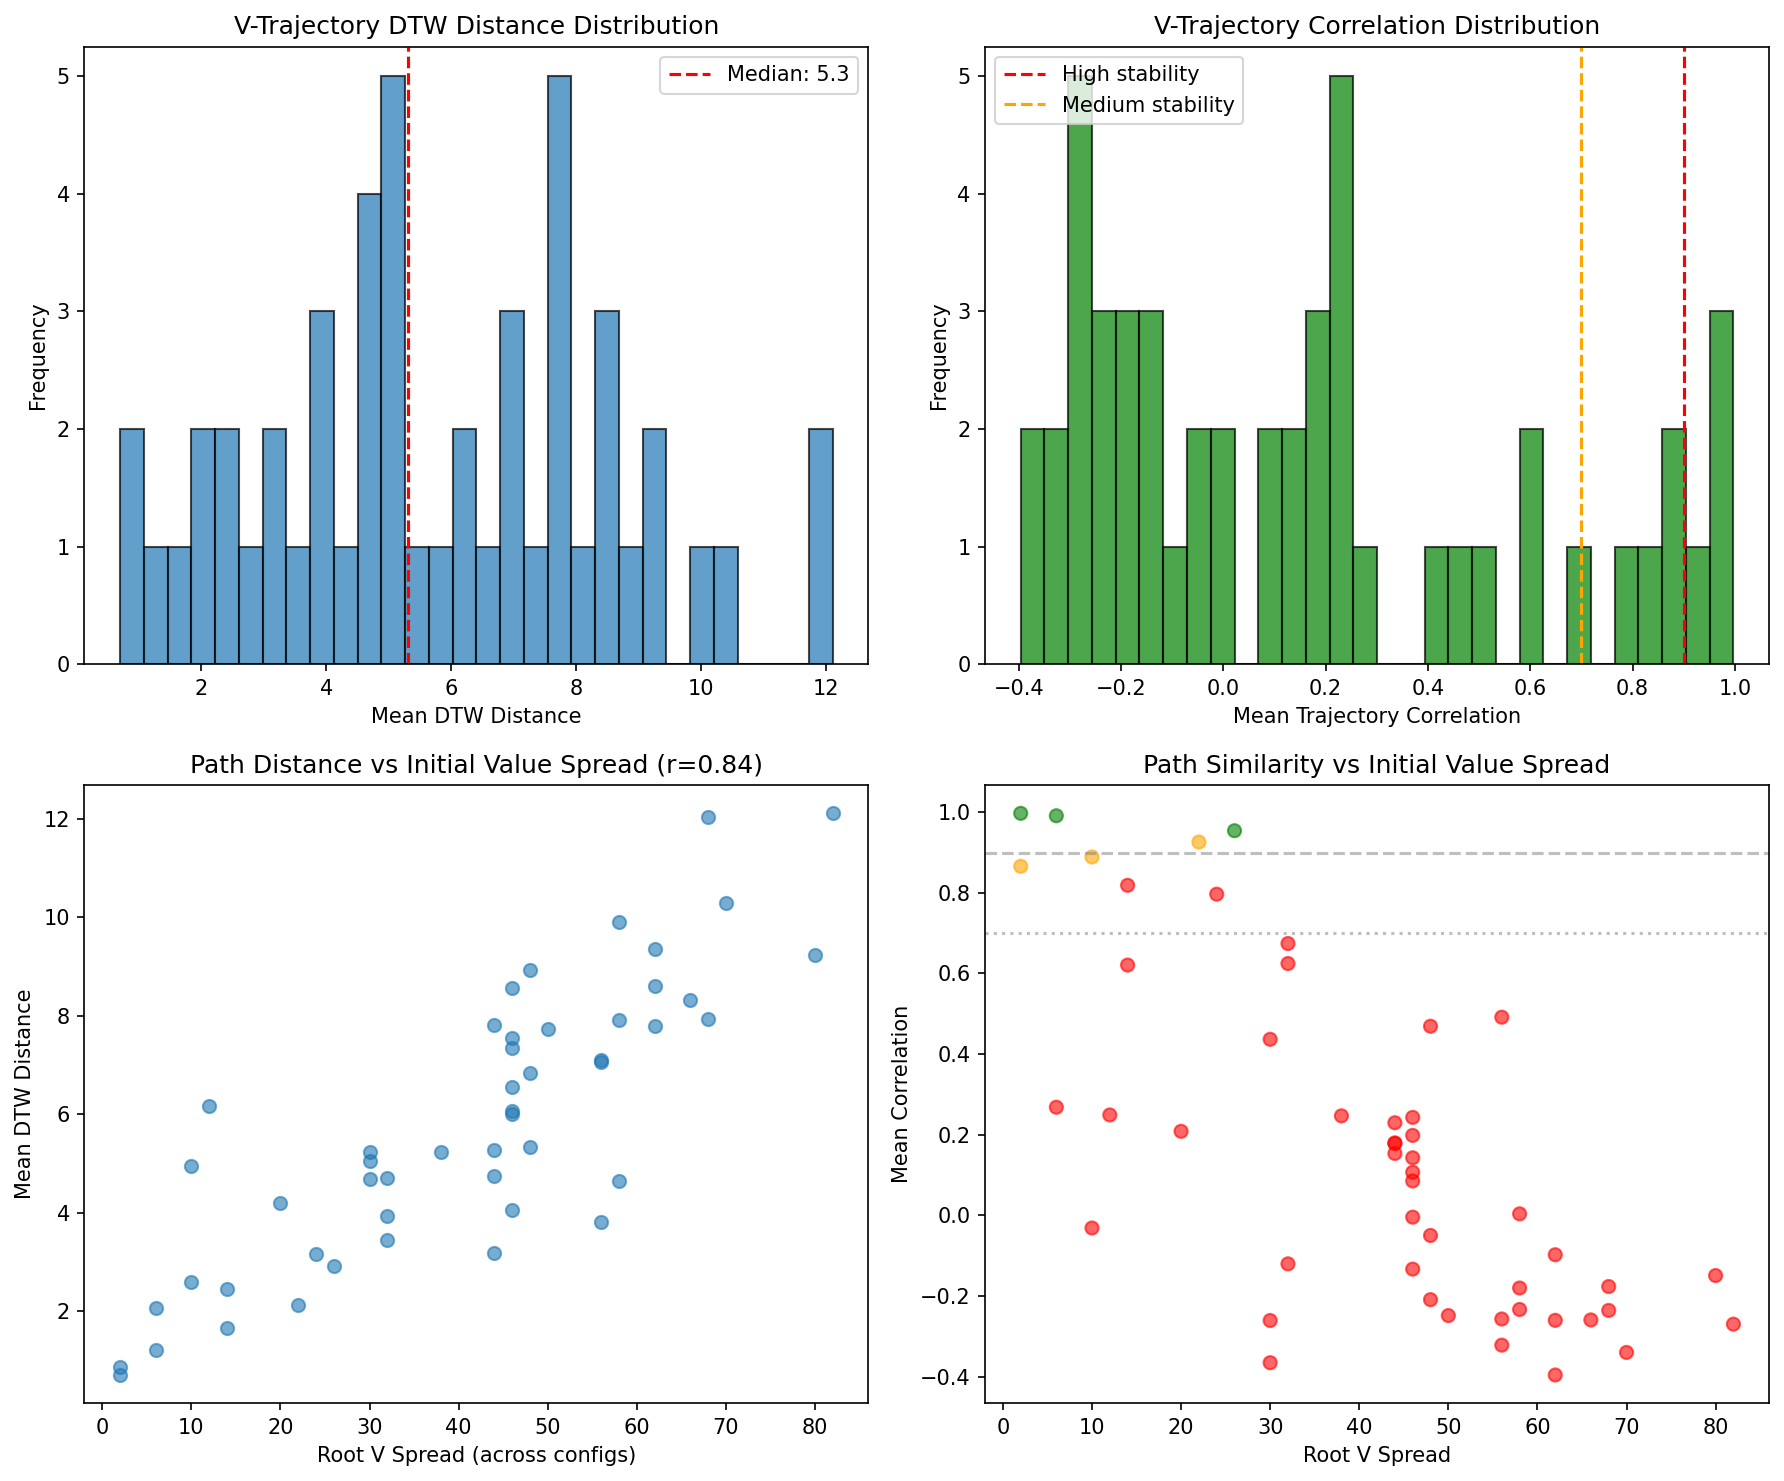
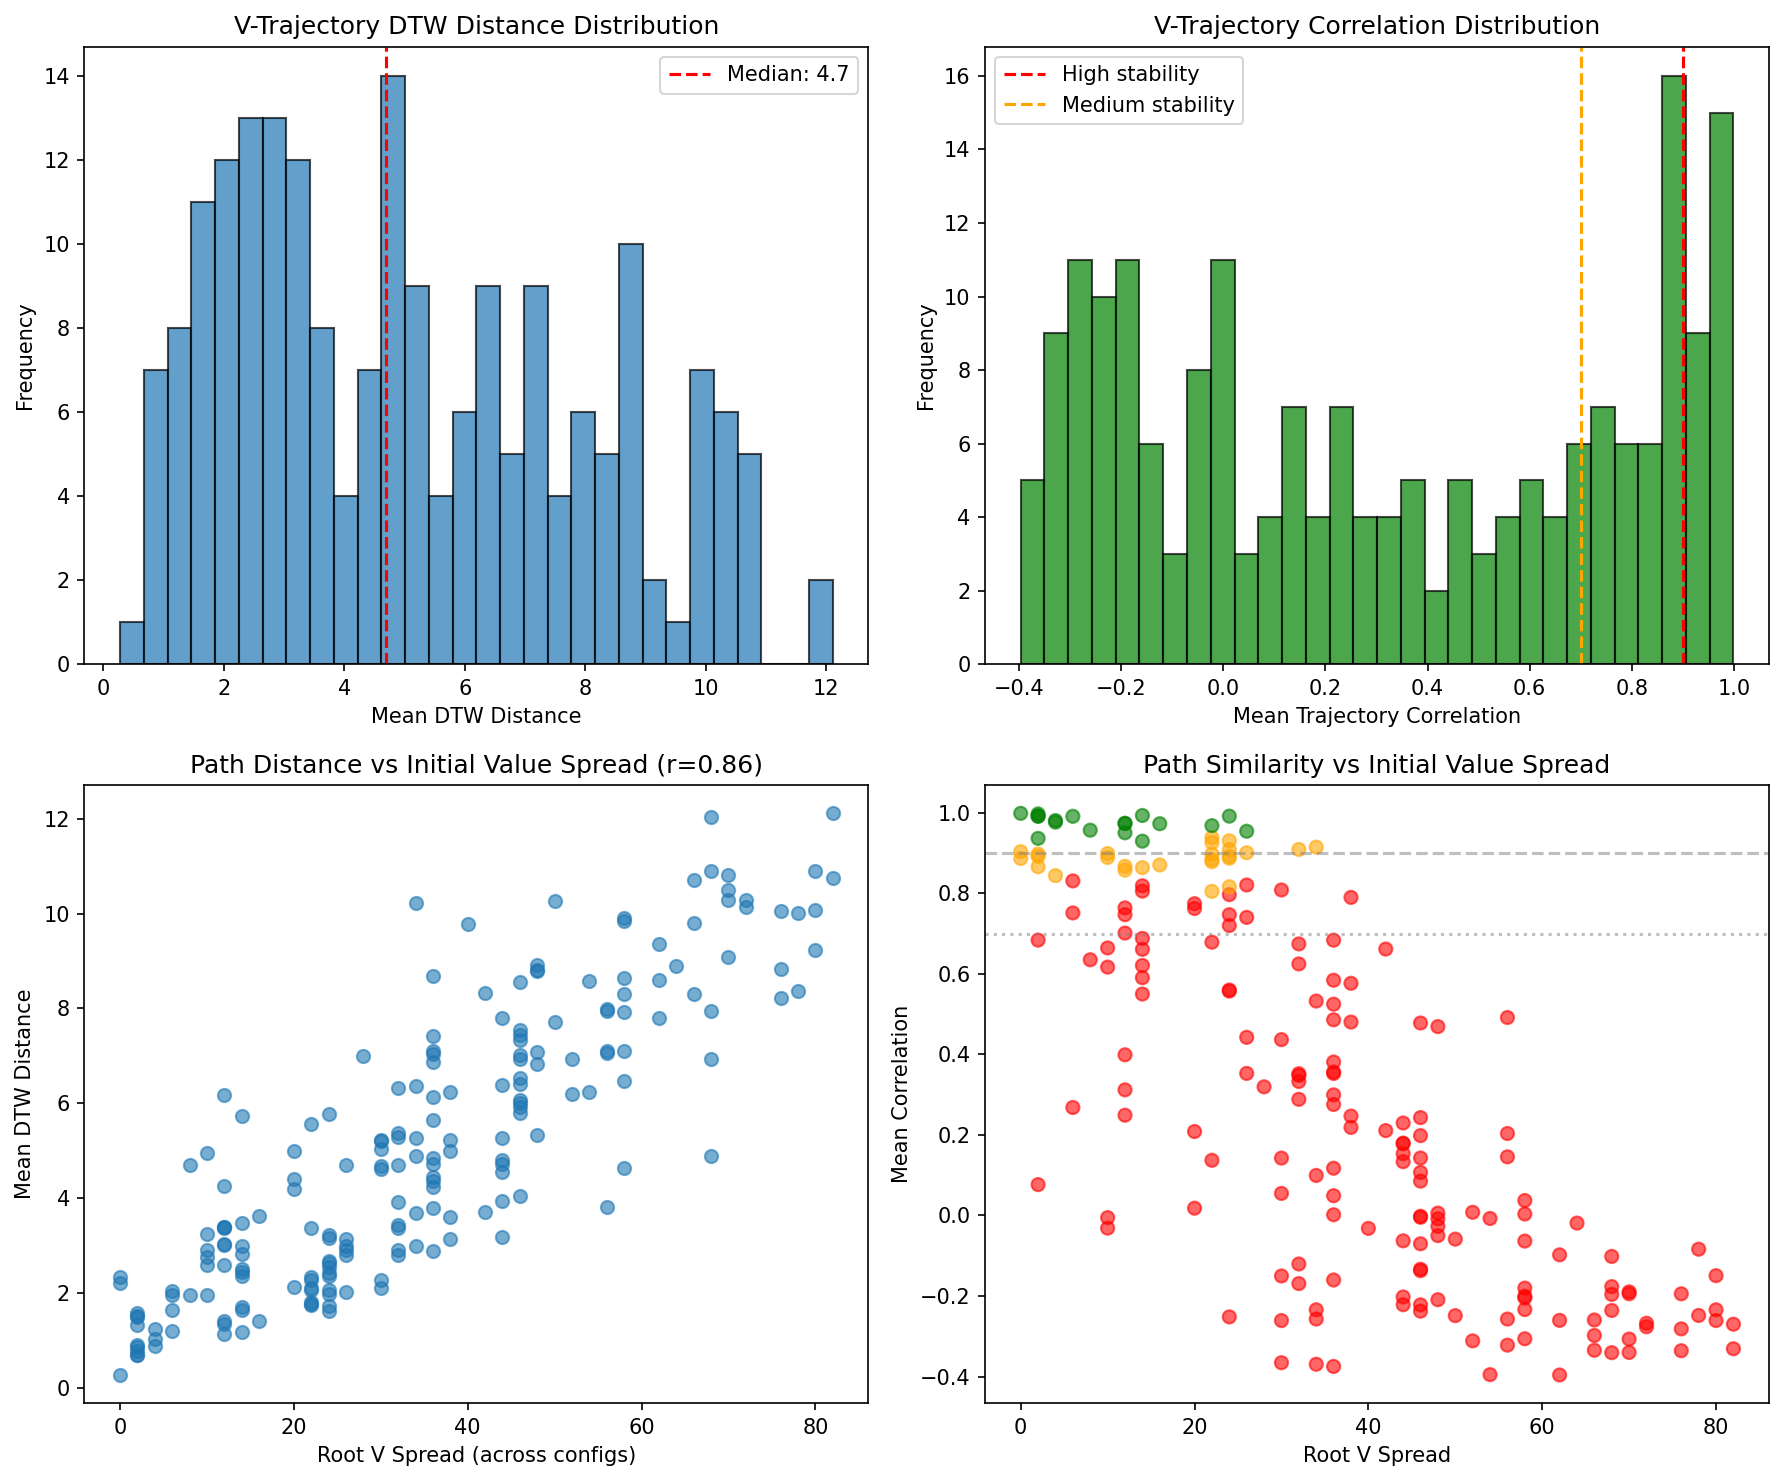
11p: Full path similarity analysis (201 seeds)
- DTW and correlation analysis on depth-V trajectories
- 78% low stability (corr ≤ 0.7), only 9% high stability
- Strong correlation (+0.86) between initial V spread and path divergence
- Games converge: 35 pt spread at root → 2.7 pts at terminal

diff --git a/forge/analysis/notebooks/11_imperfect_info/run_11p.py b/forge/analysis/notebooks/11_imperfect_info/run_11p.py
@@ -26,7 +26,7 @@ from forge.analysis.utils import features
 
 DATA_DIR = Path("/mnt/d/shards-marginalized/train")
 RESULTS_DIR = Path("/home/jason/v2/mk5-tailwind/forge/analysis/results")
-N_BASE_SEEDS = 50  # Preliminary
+N_BASE_SEEDS = 201  # Full analysis
 np.random.seed(42)
 
 # Depth levels to sample

diff --git a/forge/analysis/report/11_imperfect_info.md b/forge/analysis/report/11_imperfect_info.md
@@ -1341,7 +1341,7 @@ Two hands with identical (doubles, trumps, counts) can have very different outco
 
 ---
 
-## 11p: Path Similarity Analysis (DTW) (Preliminary)
+## 11p: Path Similarity Analysis (DTW)
 
 ### Key Question
 How similar are V-trajectories across opponent configs?
@@ -1352,66 +1352,68 @@ For each hand across 3 opponent configurations:
 2. Compute mean V at each depth level
 3. Compare depth-V trajectories using DTW and Pearson correlation
 
-### Key Findings (Preliminary - 50 seeds)
+### Key Findings (Full 201 seeds)
 
 #### Path Stability Summary
 
 | Metric | Value |
 |--------|-------|
-| Mean trajectory correlation | **0.169** |
-| Median trajectory correlation | 0.125 |
-| Min trajectory correlation | **-0.980** |
-| Mean DTW distance | 5.79 |
+| Mean trajectory correlation | **0.316** |
+| Median trajectory correlation | 0.272 |
+| Min trajectory correlation | **-0.998** |
+| Mean DTW distance | 5.08 |
 
-**Critical Finding**: V-trajectories show very LOW correlation across opponent configurations. The mean correlation of 0.169 indicates trajectories are almost uncorrelated.
+**Critical Finding**: V-trajectories show LOW correlation across opponent configurations (mean 0.316). Most trajectories are weakly correlated or uncorrelated.
 
 #### Stability Categories
 
 | Category | Count | Percentage |
 |----------|-------|------------|
-| High stability (corr > 0.9) | 3 | **6.0%** |
-| Medium stability (0.7-0.9) | 3 | **6.0%** |
-| Low stability (corr ≤ 0.7) | 44 | **88.0%** |
+| High stability (corr > 0.9) | 18 | **9.0%** |
+| Medium stability (0.7-0.9) | 26 | **13.0%** |
+| Low stability (corr ≤ 0.7) | 156 | **78.0%** |
 
-**Finding**: 88% of hands have low stability - the V trajectory through the game varies significantly based on opponent hands.
+**Finding**: 78% of hands have low stability - the V trajectory through the game varies significantly based on opponent hands. Only 9% maintain highly similar trajectories.
 
 #### Root vs Terminal V Spread
 
 | Depth | Mean Spread | Max Spread |
 |-------|-------------|------------|
-| Root (depth 28) | **40.9 points** | 82 points |
-| Terminal (depth 1) | **3.0 points** | 9 points |
+| Root (depth 28) | **35.0 points** | 82 points |
+| Terminal (depth 1) | **2.7 points** | 9 points |
 
-**Key Insight**: Games START with high V divergence (41 points) but CONVERGE toward similar endpoints (3 points). The path to get there varies wildly.
+**Key Insight**: Games START with high V divergence (35 points) but CONVERGE toward similar endpoints (2.7 points). The path to get there varies wildly.
 
 #### Path-Value Correlations
 
 | Correlation | Value |
 |-------------|-------|
-| DTW vs root V spread | **+0.843** |
-| Corr vs root V spread | **-0.725** |
-| DTW vs terminal V spread | **+0.731** |
+| DTW vs root V spread | **+0.860** |
+| Corr vs root V spread | **-0.779** |
+| DTW vs terminal V spread | **+0.717** |
 
-**Critical Finding**: Strong correlation (+0.84) between initial V spread and path divergence. Hands that start with high uncertainty in outcomes also have the most divergent trajectories.
+**Critical Finding**: Very strong correlation (+0.86) between initial V spread and path divergence. Hands that start with high uncertainty in outcomes have the most divergent trajectories through the game.
 
 ### Reconciling with 11x (Information Value)
 
 This seems to contradict 11x which found 75% action agreement:
 
 - **11x**: At any given position, the best *move* is usually the same regardless of opponents (75%)
-- **11p**: The overall *V trajectory* through the game diverges significantly (88% low correlation)
+- **11p**: The overall *V trajectory* through the game diverges significantly (78% low correlation)
 
 **Resolution**: Individual moves are robust, but the cumulative effect of different opponent distributions leads to very different game progressions. You often make the same move, but the consequences (V values at each stage) differ dramatically.
 
 ### Implications for Strategy
 
-1. **Games converge at the end**: Terminal V spread is only 3 points despite 41 points at start. Endgames are predictable.
+1. **Games converge at the end**: Terminal V spread is only 2.7 points despite 35 points at start. Endgames are predictable.
 
 2. **Early/mid game trajectories diverge**: The path from start to end varies based on opponents, even if individual moves are similar.
 
-3. **High-variance hands have divergent paths**: The +0.84 correlation means that hands with uncertain V also have the most unpredictable game progressions.
+3. **High-variance hands have divergent paths**: The +0.86 correlation means that hands with uncertain V also have the most unpredictable game progressions.
 
 4. **Focus on endgame**: Since games converge, endgame calculation becomes increasingly reliable.
+
+5. **Only 9% are predictable**: Just 9% of hands maintain highly similar trajectories regardless of opponent distribution. These are the safest bids.
 
 ### Files Generated
 
